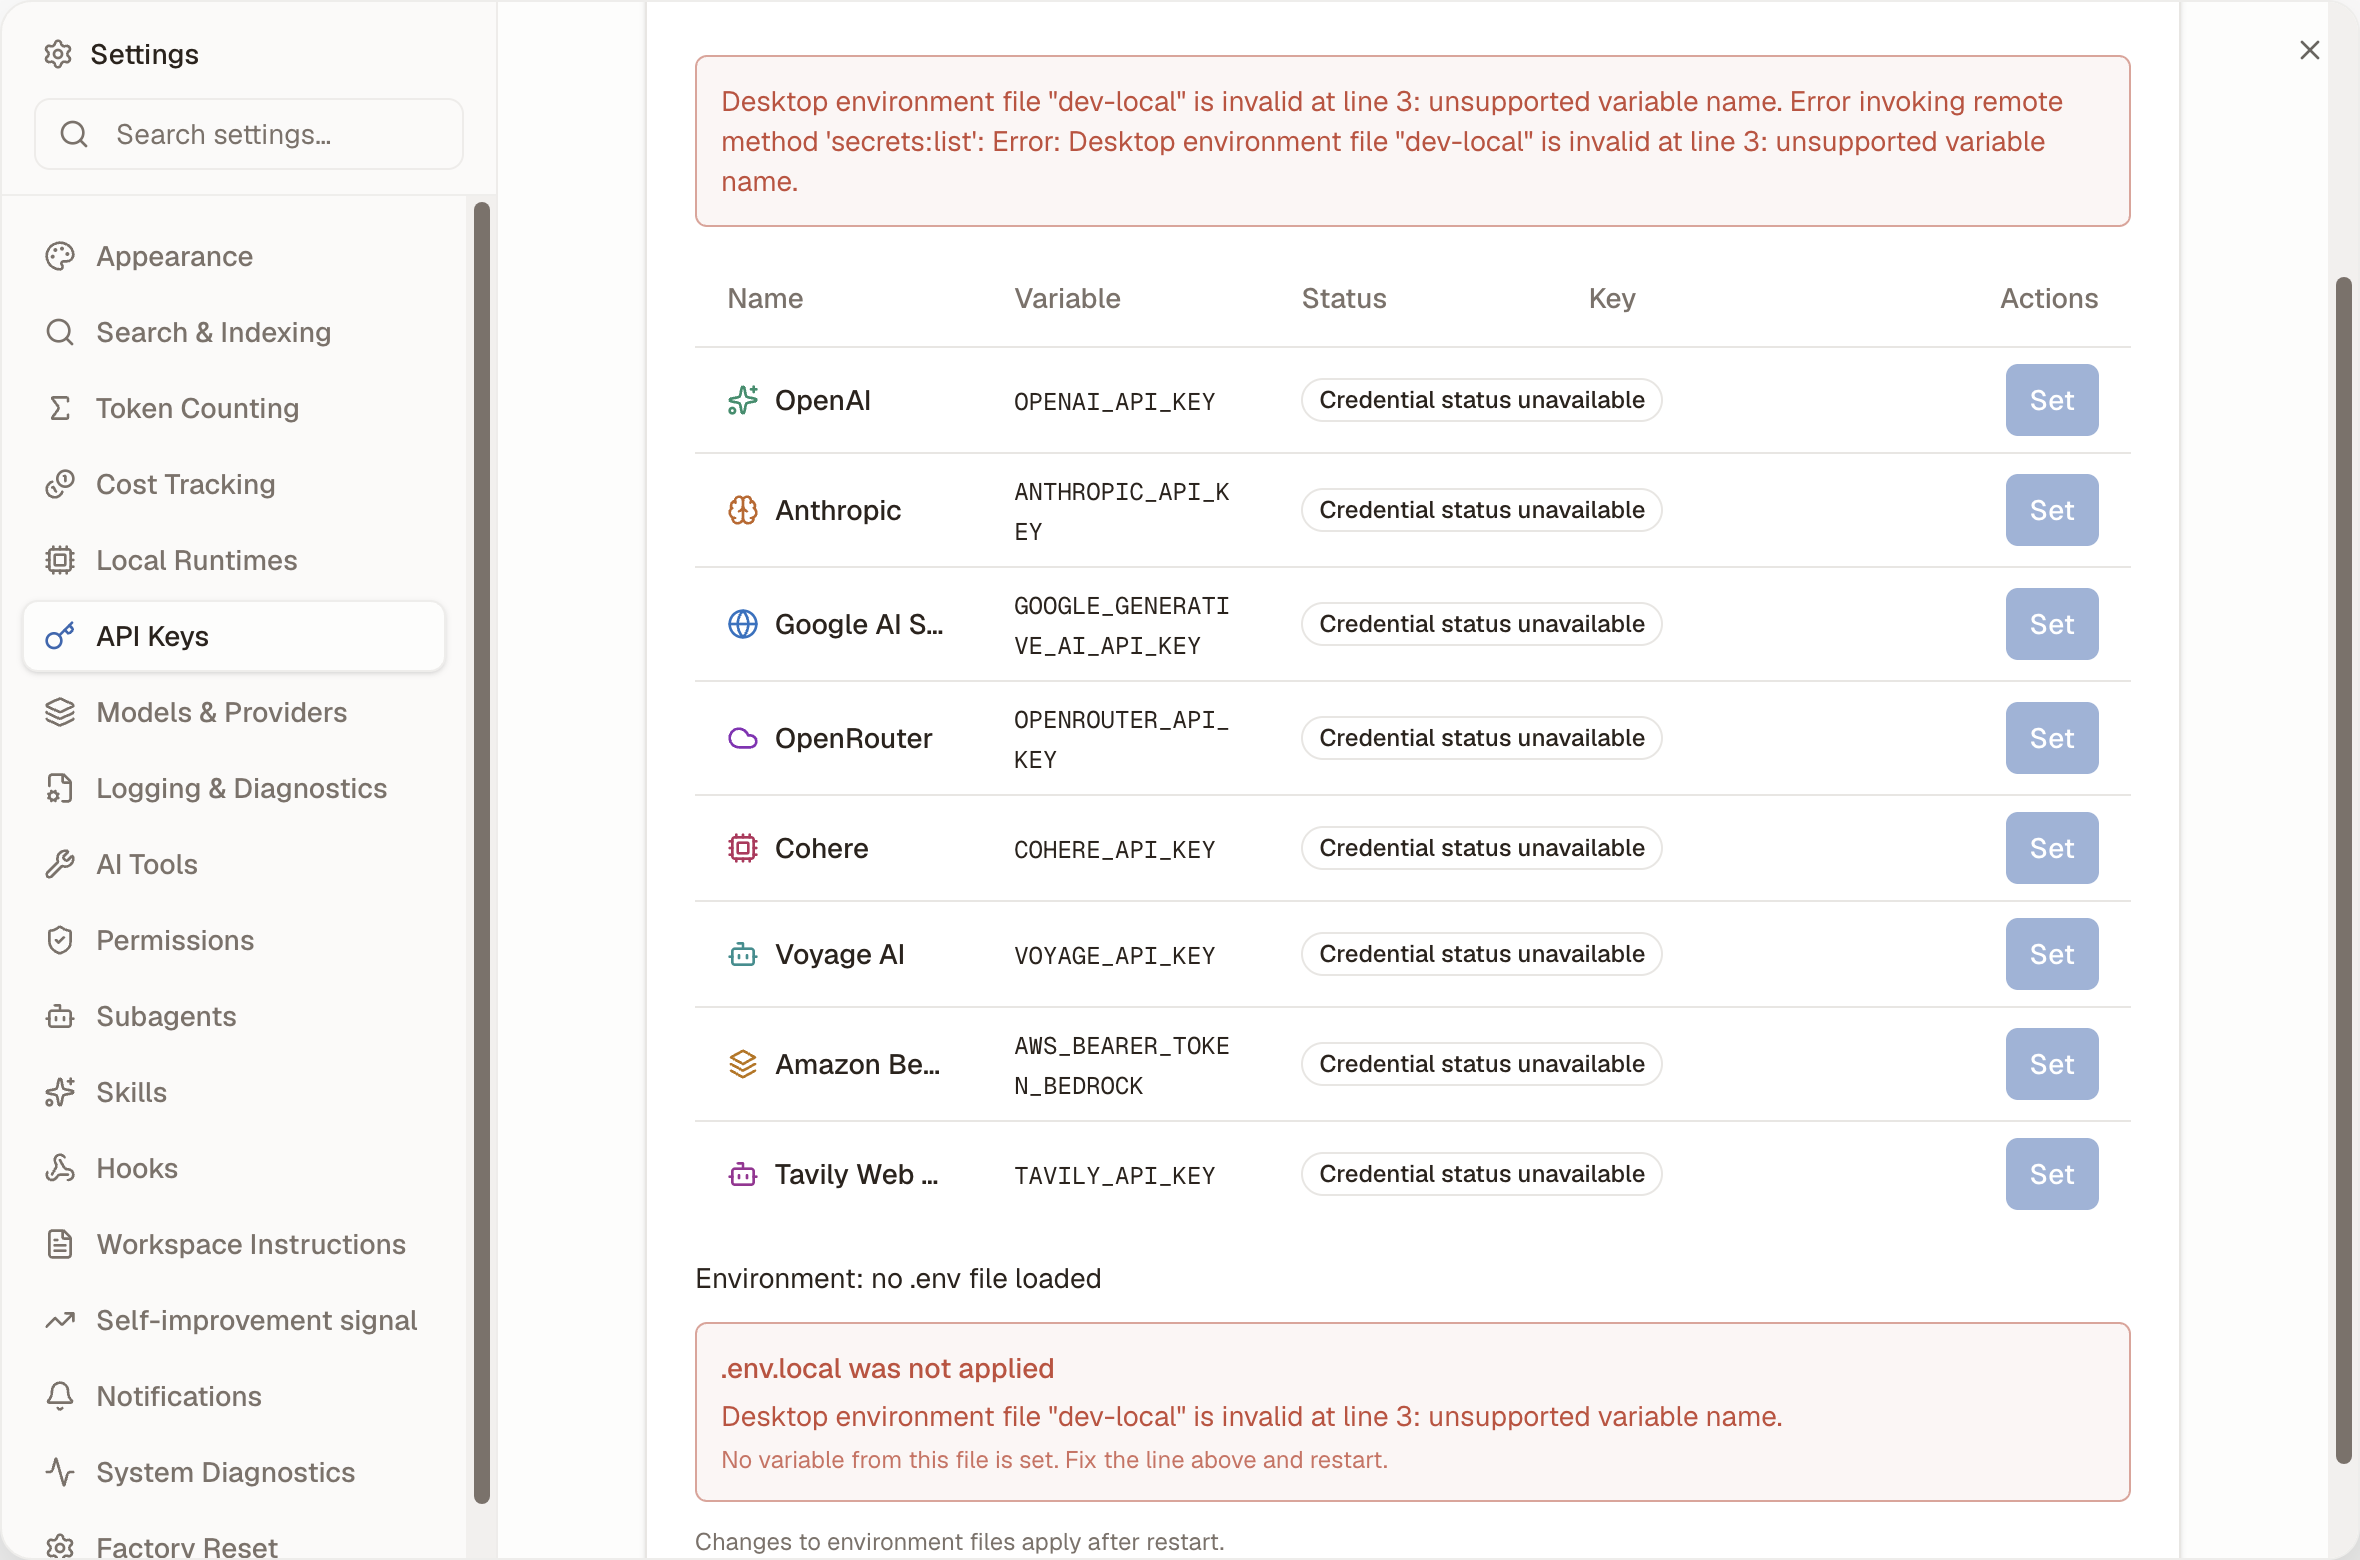
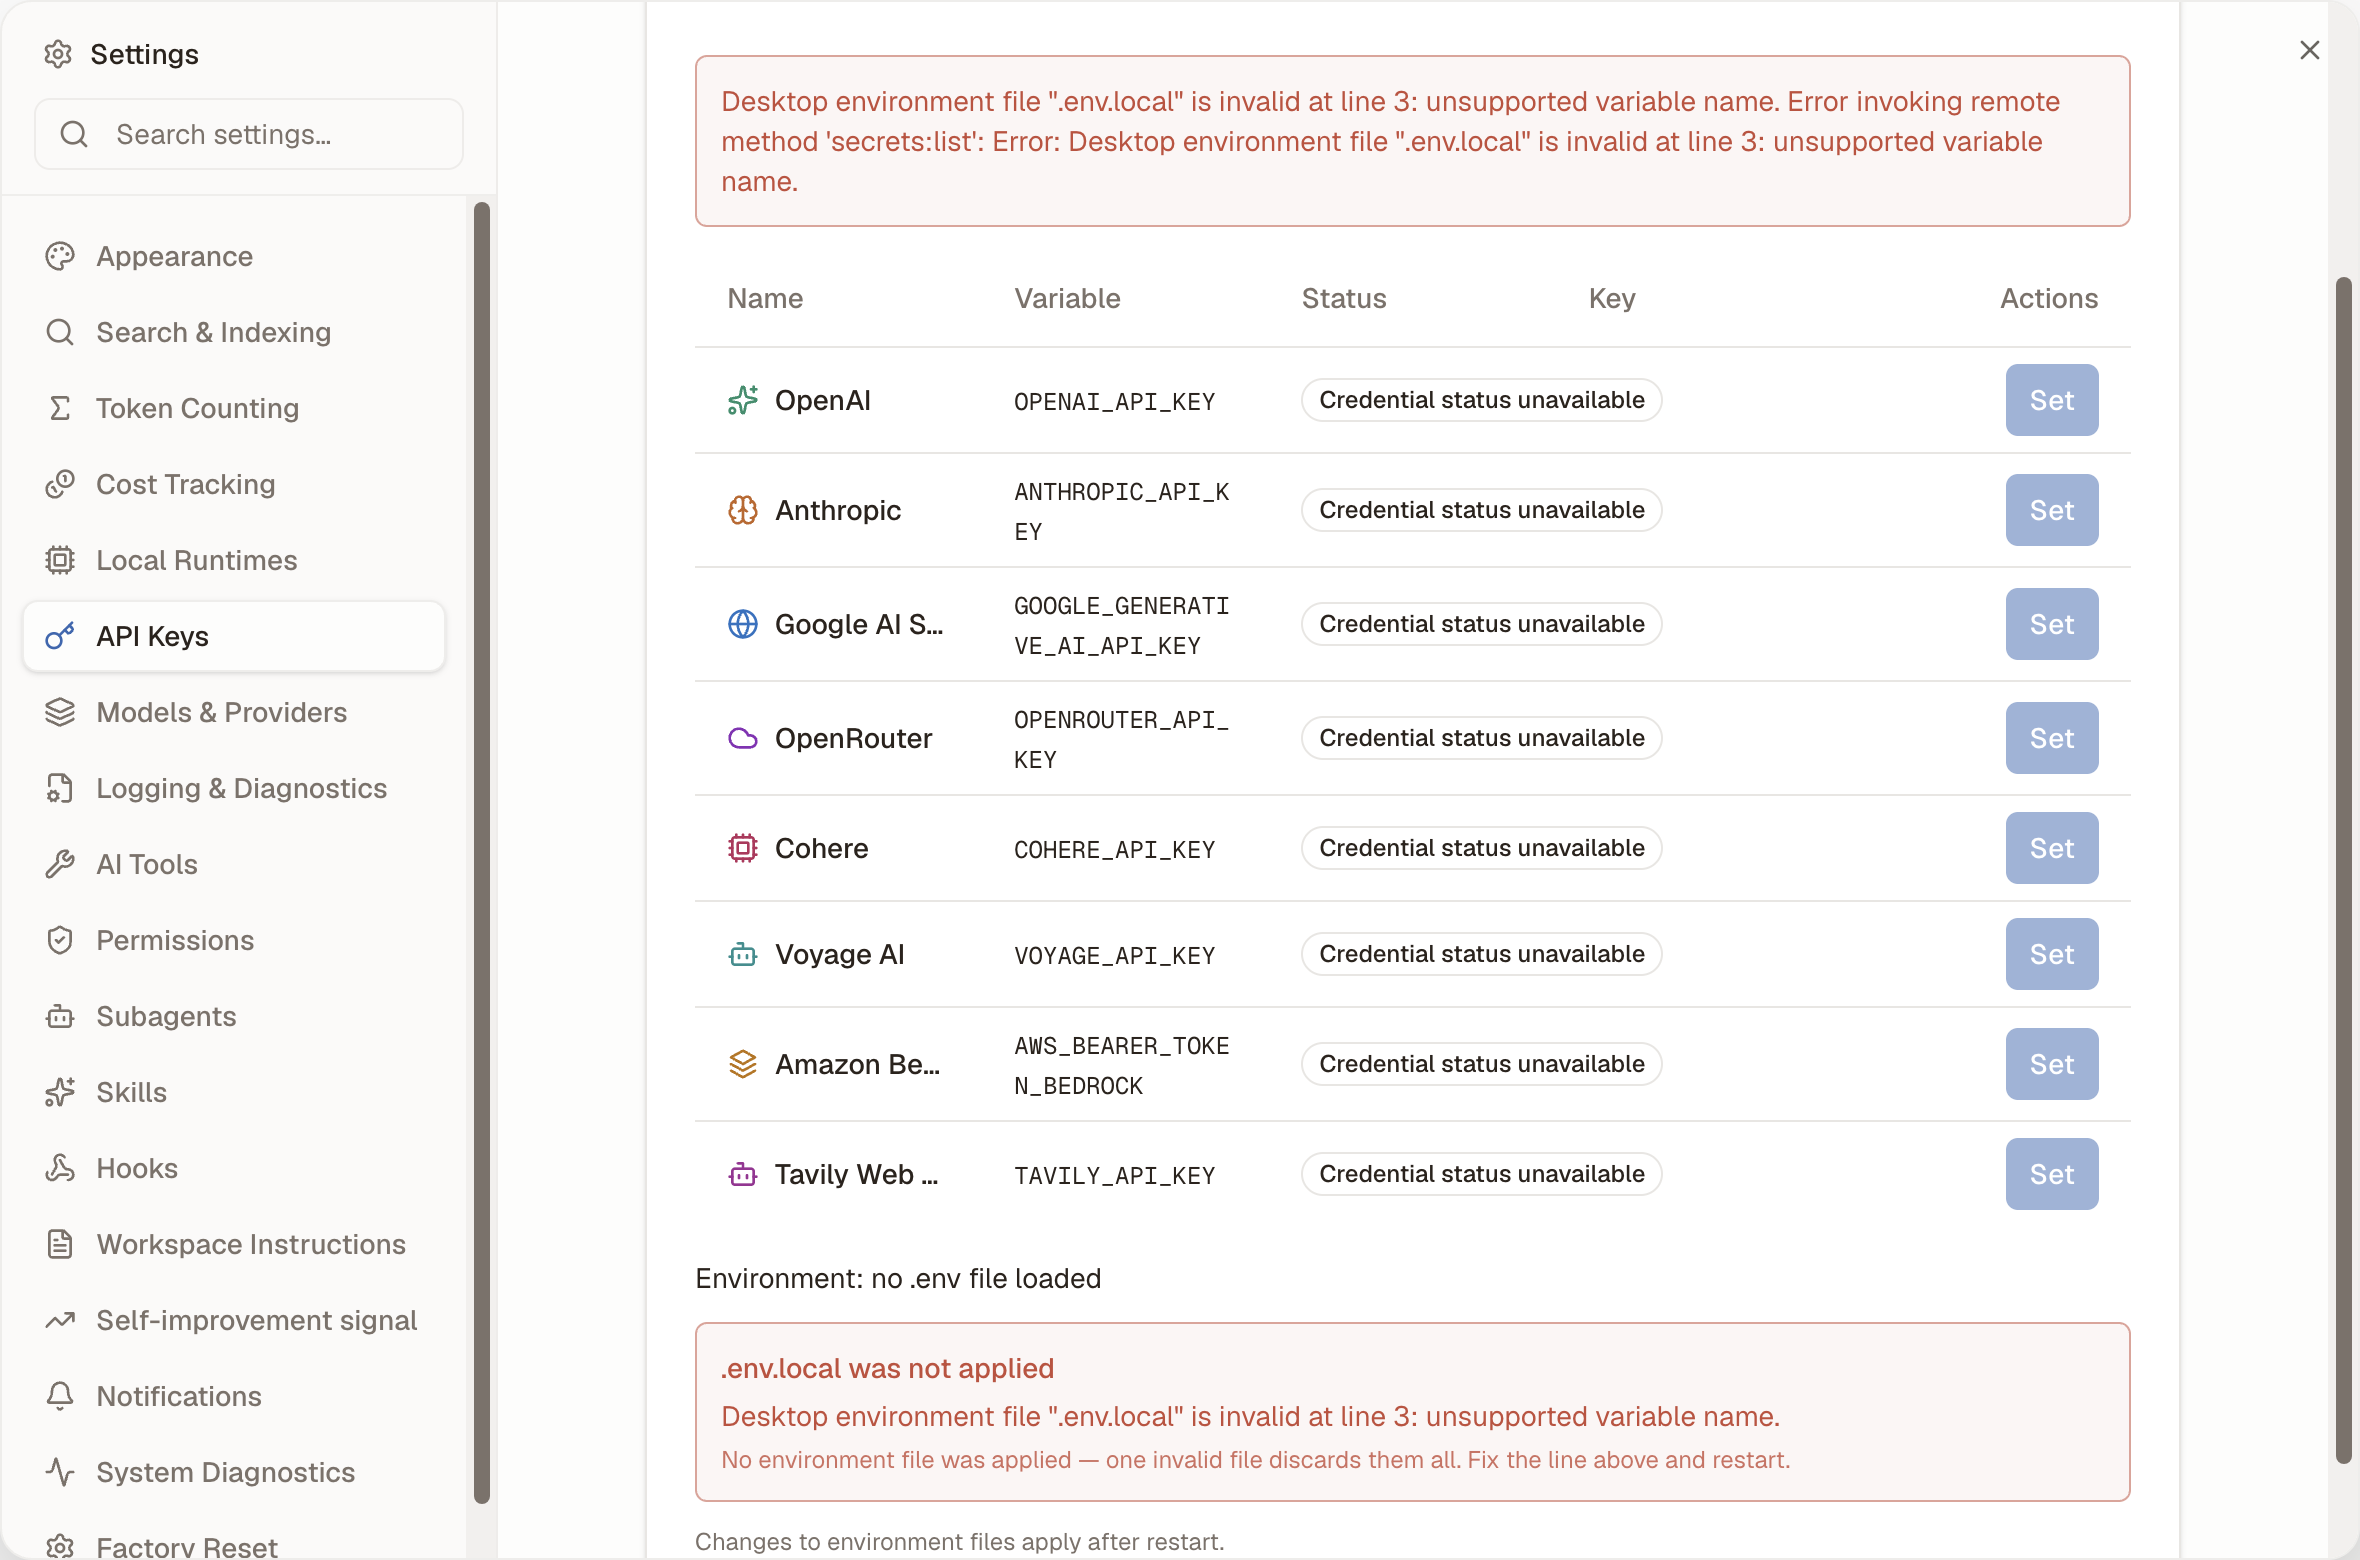
docs(BST-1363): re-capture screenshots against the reviewed build
The committed frames showed the pre-review copy: the Environment section
advising a rename to the BRAINSTRIKE_* override while the row advised the
vendor name, and a raw "dev-local" id in the failure banner. Re-captured
live over CDP so the evidence matches shipped behaviour.

Changed region(s): [[0.3093, 0.8923, 0.7424, 0.9538], [0.4331, 0.0615, 0.8661, 0.1231]]

diff --git a/docs/screenshots/bst-1363/README.md b/docs/screenshots/bst-1363/README.md
@@ -11,11 +11,13 @@ The env files used for capture contained only obviously fake placeholder
 values (each ending in `fake-bst1363`, matching no real credential) and are
 gitignored; they were removed after capture.
 
+Re-captured after code review, so every frame shows SHIPPED copy.
+
 | File | State |
 | --- | --- |
-| `01-env-loaded-chips.png` | Both dev files applied: `Environment: .env.local + .env loaded, 4 variables applied`; amber rename guidance for the retired `AI_OPENAI_API_KEY`; effective-variable chips with credential names (`BRAINSTRIKE_OPENAI_API_KEY`, `TAVILY_API_KEY`) visually distinct from the non-credential config name (`AWS_REGION`); the explicit `Changes to environment files apply after restart.` note. The inventory above shows the same env resolution landing as read-only `Env (…)` rows. |
-| `02-chip-crosslink-highlight.png` | After clicking the `BRAINSTRIKE_OPENAI_API_KEY` chip: the OpenAI inventory row is scrolled to and ringed (`data-highlighted="true"` on `credential-row-openai` only). |
-| `03-invalid-line-failure.png` | THE FAILURE CLASS THIS TICKET EXISTS FOR. `.env.local` line 3 was changed to an unsupported name and the app restarted: the section states `Environment: no .env file loaded` and the banner reproduces the parser's line-precise message verbatim — `Desktop environment file "dev-local" is invalid at line 3: unsupported variable name.` — plus `No variable from this file is set. Fix the line above and restart.` Note that ALL files stop applying, which is why the chips are gone: rejection is all-or-nothing by design. |
+| `01-env-loaded-chips.png` | Both dev files applied: `Environment: .env.local + .env loaded, 4 variables applied`; amber rename guidance for the retired `AI_OPENAI_API_KEY` naming the VENDOR replacement plus the file-provenance clause; effective-variable chips with credential names (`BRAINSTRIKE_OPENAI_API_KEY`, `TAVILY_API_KEY`) visually distinct from the non-credential config name (`AWS_REGION`); the explicit `Changes to environment files apply after restart.` note. The inventory above shows the same env resolution landing as read-only `Env (…)` rows. |
+| `02-chip-crosslink-highlight.png` | After clicking the `BRAINSTRIKE_OPENAI_API_KEY` chip: the OpenAI inventory row is scrolled to and ringed (`data-highlighted="true"` on `credential-row-openai` only). This frame is also the proof for the review blocker — the row and the Environment section now advise the SAME rename target (`OPENAI_API_KEY`), where they previously contradicted each other in this exact view. |
+| `03-invalid-line-failure.png` | THE FAILURE CLASS THIS TICKET EXISTS FOR. `.env.local` line 3 was changed to an unsupported name and the app restarted: the section states `Environment: no .env file loaded` and the banner reproduces the parser's line-precise message verbatim — `Desktop environment file ".env.local" is invalid at line 3: unsupported variable name.` — plus `No environment file was applied — one invalid file discards them all.` The chips are gone because rejection is all-or-nothing, which is exactly what that sentence now says. No internal file id (`dev` / `dev-local`) appears anywhere. |
 
 ## Payload verified value-free against the live bridge
 
